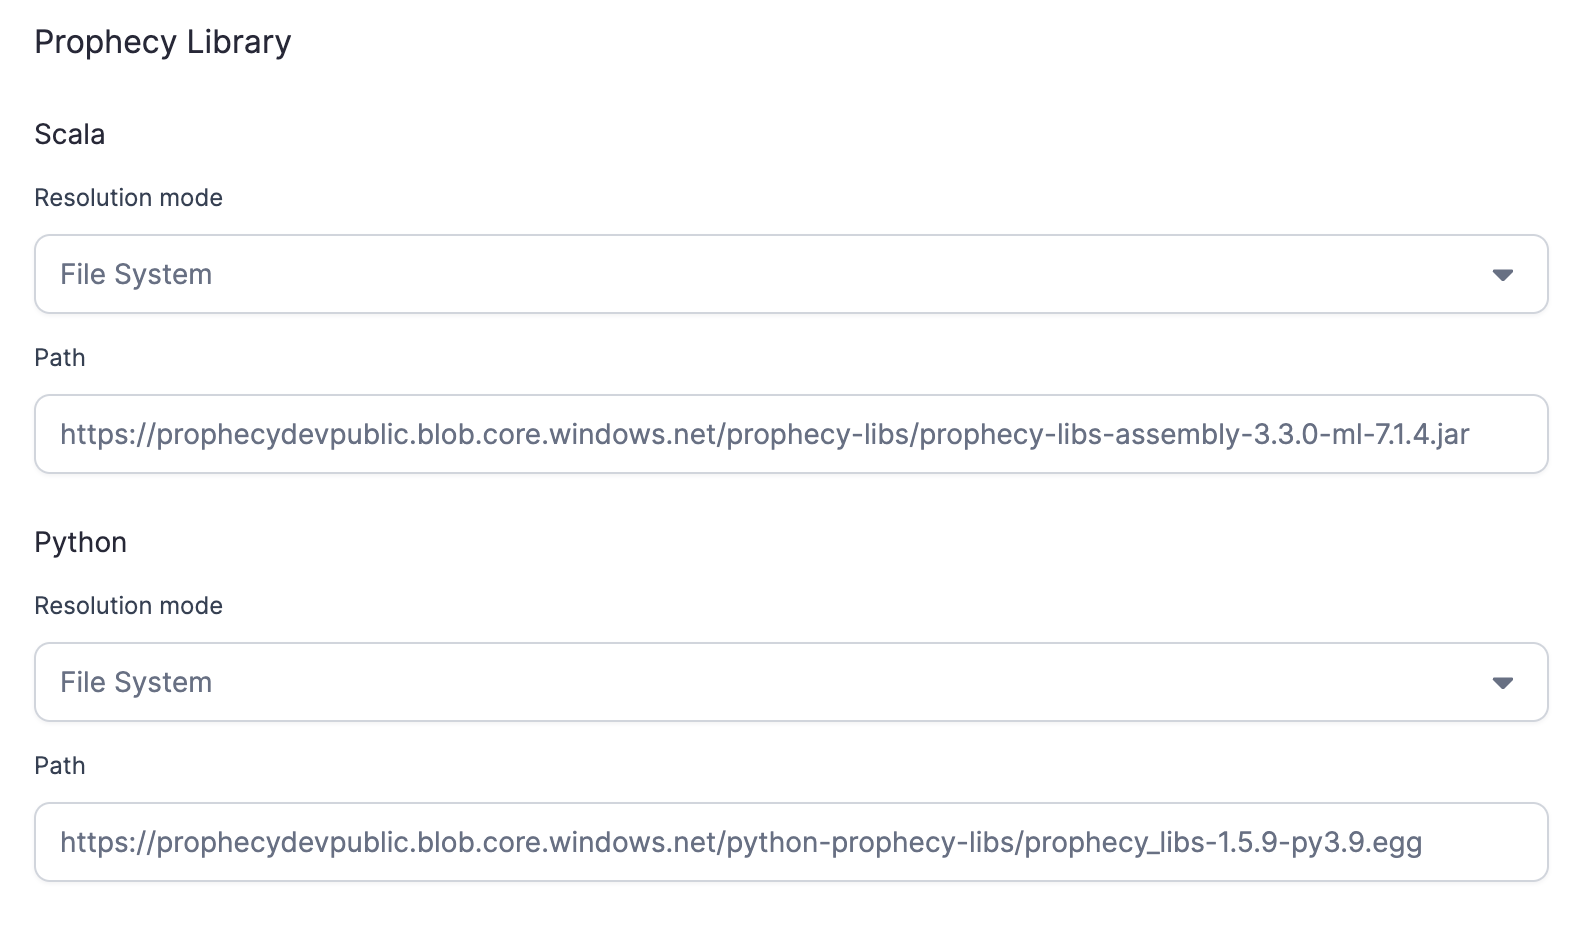
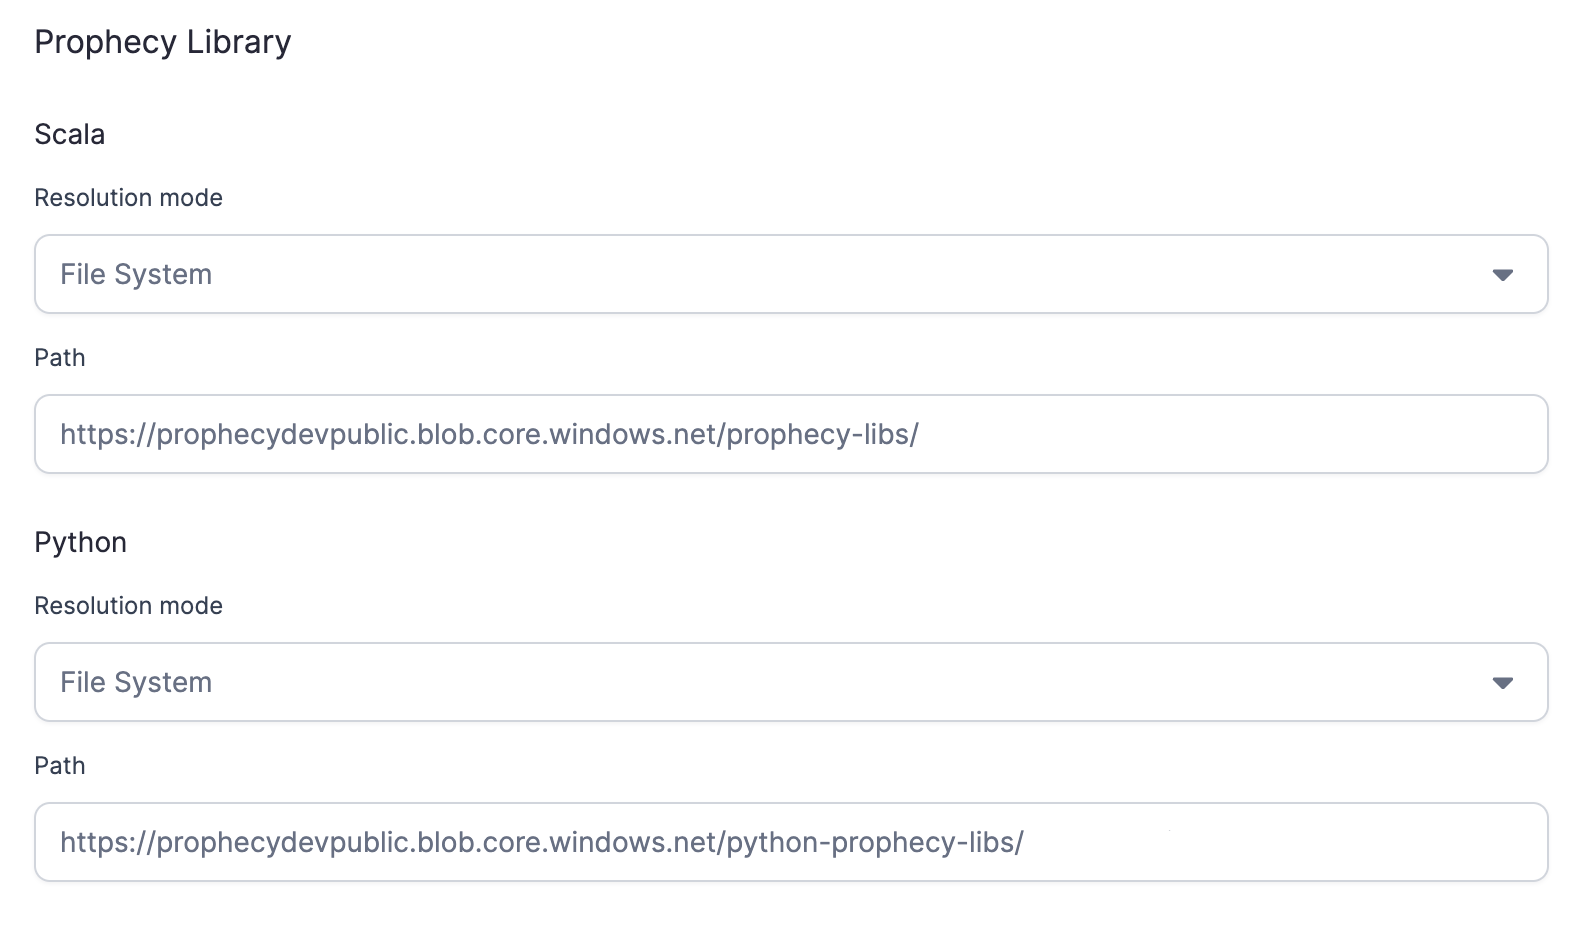
revised per engineering review

Changed region(s): [[0.59, 0.4338, 0.9316, 0.4957], [0.6521, 0.8675, 0.9005, 0.9295]]

diff --git a/docs/low-code-spark/fabrics/synapsefabric.md b/docs/low-code-spark/fabrics/synapsefabric.md
@@ -11,28 +11,29 @@ tags:
   - livy
 ---
 
-In the context of Spark execution engines, users have the flexibility to opt for Azure Synapse Analytics while utilizing Prophecy. This comprehensive documentation aims to provide users with a clear understanding of the configuration process for Azure Synapse Analytics and Apache Livy. Additionally, it offers step-by-step guidance on creating a Fabric that enables seamless connectivity to the Azure Synapse environment via Livy.
+In the context of Spark execution engines, users have the flexibility to opt for Azure Synapse Analytics while utilizing Prophecy. This comprehensive documentation aims to provide users with a clear understanding of the configuration process for Azure Synapse Analytics. Additionally, it offers step-by-step guidance on creating a Fabric that enables seamless connectivity to the Azure Synapse Workspace via Livy.
 
-Feel free to explore the following sections to gain insights into the integration of Azure Synapse Analytics and Apache Livy with Prophecy.
+Feel free to explore the following sections to gain insights into the integration of Azure Synapse Analytics with Prophecy.
 
 ## An existing Azure Synapse Analytics environment
-
-:::caution Warning
-Livy does not work with Python version 3.8 and above.
-:::
 
 A properly configured Azure Synapse Analytics environment is required before configuring a Synapse Fabric on Prophecy. Prophecy configurations include the following:
 
 1. A Synapse workspace with proper security configured. If you don't have an existing workspace, you may deploy one from the [Azure Marketplace](https://azuremarketplace.microsoft.com/en-us/marketplace/apps/microsoft.synapse?tab=overview).
    <img src={require('./img/workspaceiam.png').default} alt="Synapse security" width="75%" />
+
 2. Deploy a Synapse Spark Pool if one doesn't already exist.
    <img src={require('./img/sparkpool.png').default} alt="Synapse pool" width="75%" />
+
 3. Make sure the Application is registered.
    <img src={require('./img/add_app.png').default} alt="Synapse security" width="75%" />
+
 4. Create a secret for your Application.
    <img src={require('./img/secret.png').default} alt="Synapse security" width="75%" />
+
 5. Make a note of your secret. We need this information for your Fabric.
    <img src={require('./img/secret2.png').default} alt="Synapse security" width="75%" />
+
 6. Configure Application, Workspace, Storage roles to ensure proper access.
 
 Find more information on assigning roles from [Azure's documentation](https://learn.microsoft.com/en-us/azure/synapse-analytics/security/how-to-set-up-access-control).
@@ -42,36 +43,55 @@ Find more information on assigning roles from [Azure's documentation](https://le
 Please note that the Prophecy public IP is `3.133.35.237`.
 
 Navigate to Prophecy's UI and click on **Create Fabric**. The Fabric will establish a connection with your Synapse environment and utilize it as the execution engine for your Pipelines.
+<br/> <br/>
 
 **Choose Synapse** as your **Provider**.
+<br/> <br/>
+
 <img src={require('./img/provider.png').default} alt="Synapse connect" width="75%" />
+<br/> <br/>
 
 **Copy and paste** your **Application Client ID**, **Secret Value** and **Tenant ID** from the App Registration page.
+<br/> <br/>
+
 <img src={require('./img/appconfig.png').default} alt="Synapse connect" width="75%" />
+<br/> <br/>
 
 **Copy and paste** your Synapse **Resource Group Name** and **Subscription ID** from your Synapse workspace.
+<br/> <br/>
+
 <img src={require('./img/workspaceconfig.png').default} alt="Synapse connect" width="75%" />
+<br/> <br/>
 
 **Click** on **Fetch environments**.
+<br/> <br/>
 
 **Select** your Spark pool from the _Spark environment_ dropdown. All other fields should be automatically populated after selecting your Spark Pool.
+<br/> <br/>
+
 <img src={require('./img/selectsparkpool.png').default} alt="Synapse connect" width="75%" />
+<br/> <br/>
 
 **Click** on **Add Job Size** and configure the Job size that you would like to use for processing.
+<br/> <br/>
+
 <img src={require('./img/addjsize.png').default} alt="Synapse connect" width="75%" />
+<br/> <br/>
 
 Now we configure the dependencies.
 
 Under **Scala** enter **Path**
 
-`https://prophecydevpublic.blob.core.windows.net/prophecy-libs/prophecy-libs-assembly-3.3.0-ml-7.1.4.jar`
+`https://prophecydevpublic.blob.core.windows.net/prophecy-libs/`
 
 Under **Python** enter **Path**
 
-`https://prophecydevpublic.blob.core.windows.net/python-prophecy-libs/prophecy_libs-1.5.9-py3.9.egg`
+`https://prophecydevpublic.blob.core.windows.net/python-prophecy-libs/`
 <img src={require('./img/lib.png').default} alt="Synapse connect" width="75%" />
+<br/> <br/>
 
 **Click** on **Complete**.
+<br/> <br/>
 
 Your Fabric for Azure Synapase Fabric is configured! Try creating a cluster using the Fabric that you've just created and attach to it.
 
